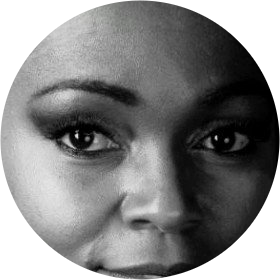
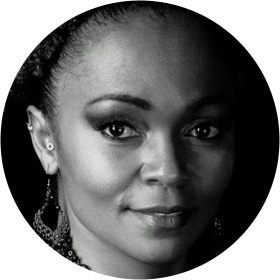
Photo dezoomee (tete entiere) et ruban sticky reduit de moitie

diff --git a/public/epilations.html b/public/epilations.html
@@ -30,7 +30,7 @@
   <link rel="preload" href="/fonts/pinyon.woff2" as="font" type="font/woff2" crossorigin>
   <link rel="preload" href="/fonts/cormorant.woff2" as="font" type="font/woff2" crossorigin>
   <link rel="preload" href="/fonts/jost.woff2" as="font" type="font/woff2" crossorigin>
-  <link rel="stylesheet" href="/css/style.css?v=20261119f">
+  <link rel="stylesheet" href="/css/style.css?v=20261119g">
   <script>
     document.documentElement.classList.add('js');
     window.setTimeout(function () {
@@ -243,6 +243,6 @@
   </div>
 </footer>
 
-<script src="/js/main.js?v=20261119f"></script>
+<script src="/js/main.js?v=20261119g"></script>
 </body>
 </html>

diff --git a/public/extensions-de-cils.html b/public/extensions-de-cils.html
@@ -30,7 +30,7 @@
   <link rel="preload" href="/fonts/pinyon.woff2" as="font" type="font/woff2" crossorigin>
   <link rel="preload" href="/fonts/cormorant.woff2" as="font" type="font/woff2" crossorigin>
   <link rel="preload" href="/fonts/jost.woff2" as="font" type="font/woff2" crossorigin>
-  <link rel="stylesheet" href="/css/style.css?v=20261119f">
+  <link rel="stylesheet" href="/css/style.css?v=20261119g">
   <script>
     document.documentElement.classList.add('js');
     window.setTimeout(function () {
@@ -203,6 +203,6 @@
   </div>
 </footer>
 
-<script src="/js/main.js?v=20261119f"></script>
+<script src="/js/main.js?v=20261119g"></script>
 </body>
 </html>

diff --git a/public/faq.html b/public/faq.html
@@ -30,7 +30,7 @@
   <link rel="preload" href="/fonts/pinyon.woff2" as="font" type="font/woff2" crossorigin>
   <link rel="preload" href="/fonts/cormorant.woff2" as="font" type="font/woff2" crossorigin>
   <link rel="preload" href="/fonts/jost.woff2" as="font" type="font/woff2" crossorigin>
-  <link rel="stylesheet" href="/css/style.css?v=20261119f">
+  <link rel="stylesheet" href="/css/style.css?v=20261119g">
   <script>
     document.documentElement.classList.add('js');
     window.setTimeout(function () {
@@ -221,6 +221,6 @@
   </div>
 </footer>
 
-<script src="/js/main.js?v=20261119f"></script>
+<script src="/js/main.js?v=20261119g"></script>
 </body>
 </html>

diff --git a/public/massages.html b/public/massages.html
@@ -30,7 +30,7 @@
   <link rel="preload" href="/fonts/pinyon.woff2" as="font" type="font/woff2" crossorigin>
   <link rel="preload" href="/fonts/cormorant.woff2" as="font" type="font/woff2" crossorigin>
   <link rel="preload" href="/fonts/jost.woff2" as="font" type="font/woff2" crossorigin>
-  <link rel="stylesheet" href="/css/style.css?v=20261119f">
+  <link rel="stylesheet" href="/css/style.css?v=20261119g">
   <script>
     document.documentElement.classList.add('js');
     window.setTimeout(function () {
@@ -243,6 +243,6 @@
   </div>
 </footer>
 
-<script src="/js/main.js?v=20261119f"></script>
+<script src="/js/main.js?v=20261119g"></script>
 </body>
 </html>

diff --git a/public/index.html b/public/index.html
@@ -30,7 +30,7 @@
   <link rel="preload" href="/fonts/pinyon.woff2" as="font" type="font/woff2" crossorigin>
   <link rel="preload" href="/fonts/cormorant.woff2" as="font" type="font/woff2" crossorigin>
   <link rel="preload" href="/fonts/jost.woff2" as="font" type="font/woff2" crossorigin>
-  <link rel="stylesheet" href="/css/style.css?v=20261119f">
+  <link rel="stylesheet" href="/css/style.css?v=20261119g">
   <script>
     document.documentElement.classList.add('js');
     window.setTimeout(function () {
@@ -292,6 +292,6 @@
   </a>
 </div>
 
-<script src="/js/main.js?v=20261119f"></script>
+<script src="/js/main.js?v=20261119g"></script>
 </body>
 </html>

diff --git a/public/mentions-legales.html b/public/mentions-legales.html
@@ -22,7 +22,7 @@
 
   <link rel="preload" href="/fonts/cormorant.woff2" as="font" type="font/woff2" crossorigin>
   <link rel="preload" href="/fonts/jost.woff2" as="font" type="font/woff2" crossorigin>
-  <link rel="stylesheet" href="/css/style.css?v=20261119f">
+  <link rel="stylesheet" href="/css/style.css?v=20261119g">
   <script>
     document.documentElement.classList.add('js');
     window.setTimeout(function () {
@@ -106,6 +106,6 @@
   </div>
 </footer>
 
-<script src="/js/main.js?v=20261119f"></script>
+<script src="/js/main.js?v=20261119g"></script>
 </body>
 </html>

diff --git a/public/tarifs.html b/public/tarifs.html
@@ -26,7 +26,7 @@
 
   <link rel="preload" href="/fonts/cormorant.woff2" as="font" type="font/woff2" crossorigin>
   <link rel="preload" href="/fonts/jost.woff2" as="font" type="font/woff2" crossorigin>
-  <link rel="stylesheet" href="/css/style.css?v=20261119f">
+  <link rel="stylesheet" href="/css/style.css?v=20261119g">
   <script>
     document.documentElement.classList.add('js');
     window.setTimeout(function () {
@@ -256,6 +256,6 @@
   </div>
 </footer>
 
-<script src="/js/main.js?v=20261119f"></script>
+<script src="/js/main.js?v=20261119g"></script>
 </body>
 </html>

diff --git a/public/404.html b/public/404.html
@@ -10,7 +10,7 @@
   <link rel="icon" type="image/png" sizes="16x16" href="/brand/favicon-16.png">
   <link rel="apple-touch-icon" sizes="180x180" href="/brand/apple-touch-icon.png">
   <link rel="preload" href="/fonts/cormorant.woff2" as="font" type="font/woff2" crossorigin>
-  <link rel="stylesheet" href="/css/style.css?v=20261119f">
+  <link rel="stylesheet" href="/css/style.css?v=20261119g">
 </head>
 <body>
 
@@ -66,6 +66,6 @@
   </div>
 </footer>
 
-<script src="/js/main.js?v=20261119f"></script>
+<script src="/js/main.js?v=20261119g"></script>
 </body>
 </html>

diff --git a/public/css/style.css b/public/css/style.css
@@ -1413,7 +1413,7 @@ body.has-promo .hero { padding-top: 48px; min-height: calc(100svh - var(--header
 /* Ruban bon cadeau — ruban de coin, 4 coins sur les bords */
 
 .gift-ribbon {
-  position: absolute;
+  position: fixed;
   top: calc(var(--header-h) + var(--promo-h));
   left: 0;
   z-index: 55;
